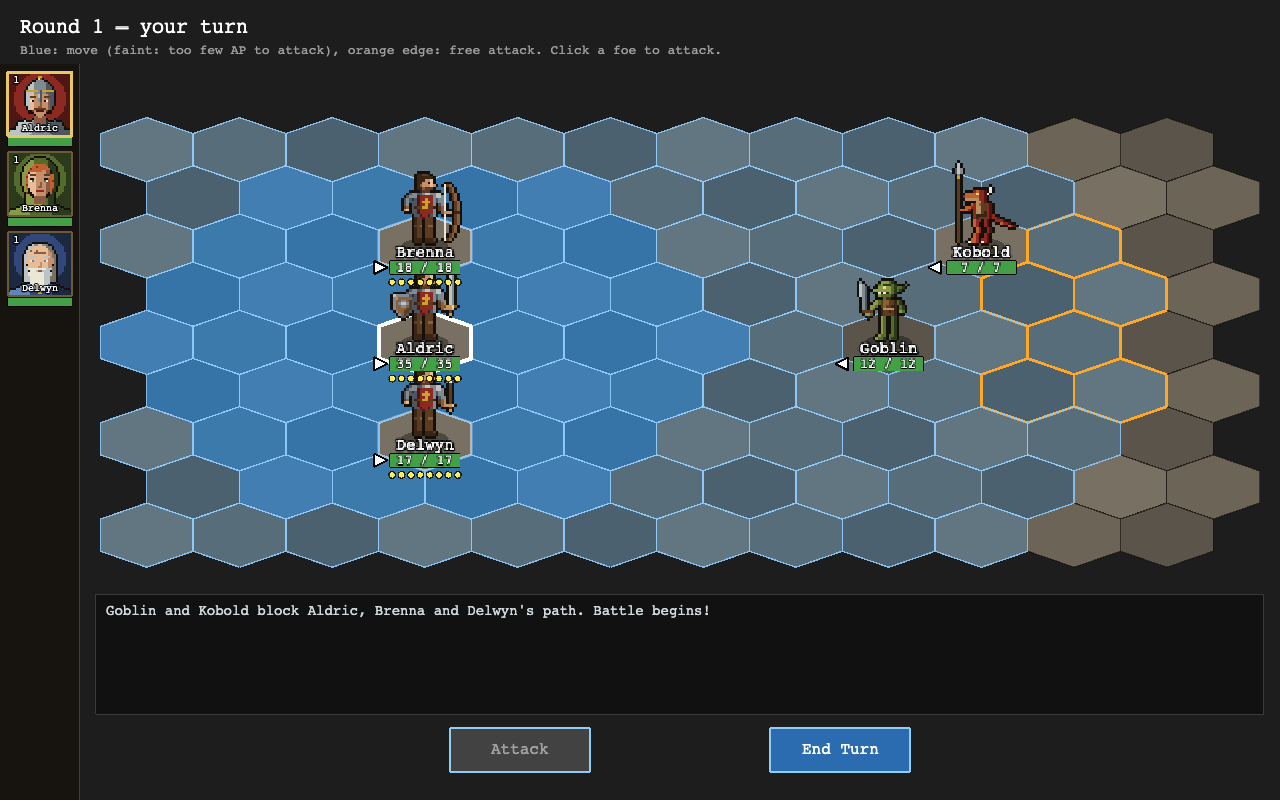
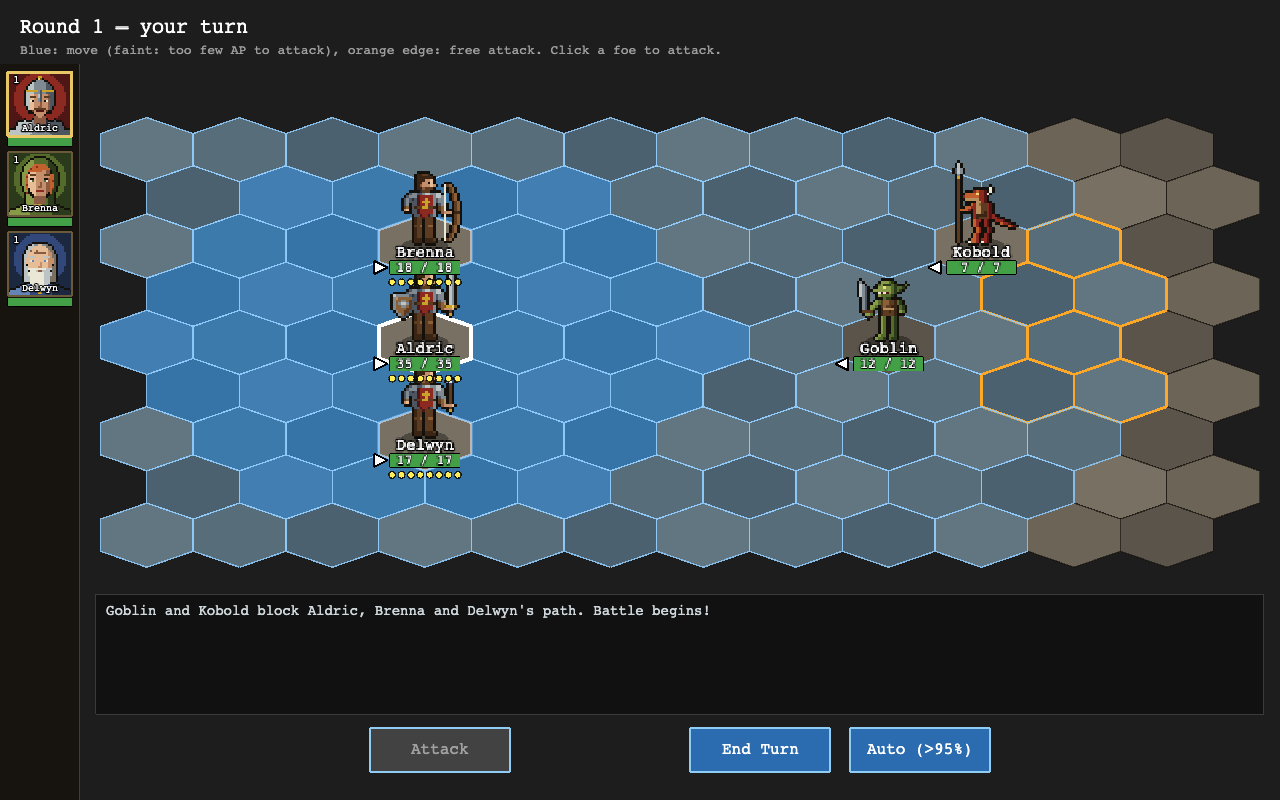
Auto-resolve step 07: manual, screenshots and records

Changed region(s): [[0.5312, 0.9062, 0.7812, 0.9688], [0.2812, 0.9062, 0.4688, 0.9688]]

diff --git a/e2e/manual.shots.ts b/e2e/manual.shots.ts
@@ -103,12 +103,14 @@ describe('the manual’s screenshots', () => {
     await game.waitForScenes(['World'])
 
     const near = await game.travelTo(RAIDERS.position)
+    await game.waitFor('World', (w) => w.forecast !== null)
     await game.hover({ x: 0, y: 0 })
     await shot(game, 'world-confront')
 
     await game.click(near.buttons.attack)
     await game.waitForScenes(['Battle'])
     const battle = await game.waitFor('Battle', (b) => b.playerControl)
+    await game.waitFor('Battle', (b) => b.forecast !== null)
     await game.hover({ x: 0, y: 0 })
     await shot(game, 'battle-start')
 
@@ -116,6 +118,7 @@ describe('the manual’s screenshots', () => {
     const foes = battle.state.units.filter((u) => u.side === 'enemy')
     const nearest = foes.reduce((a, b) => (hexDistance(hero.position, b.position) < hexDistance(hero.position, a.position) ? b : a))
     await game.hover(battleHexOnScreen(battle, offsetToHex(5, 4)))
+    await game.waitFor('Battle', (b) => b.forecast !== null)
     await shot(game, 'battle-move')
     // The archer, who can walk into range of a foe and still shoot it this turn: the path and the crossed swords.
     await game.click(battle.party[1])
@@ -126,6 +129,7 @@ describe('the manual’s screenshots', () => {
       return beyond > 0 && beyond <= archer.ap - archer.attackApCost
     }
     await game.hover(battleHexOnScreen(battle, (foes.find(walkable) ?? nearest).position))
+    await game.waitFor('Battle', (b) => b.forecast !== null)
     await shot(game, 'battle-attack')
 
     // The mage steps two hexes forward, to bring a foe within Magic Arrow's reach.
@@ -136,11 +140,13 @@ describe('the manual’s screenshots', () => {
     const stepped = await game.waitFor('Battle', (b) => b.playerControl && b.state.units.find((u) => u.id === 'hero_3')!.ap === 6)
     await game.press('m')
     const menu = await game.waitFor('Battle', (b) => b.skillMenu !== null)
+    await game.waitFor('Battle', (b) => b.forecast !== null)
     await shot(game, 'battle-spell-menu')
     await game.click(menu.skillMenu!.find((row) => row.id === 'magic_arrow')!)
     await game.waitFor('Battle', (b) => b.aiming?.id === 'magic_arrow')
     const target = stepped.state.units.filter((u) => u.side === 'enemy').find((u) => hexDistance(stepped.state.units.find((m) => m.id === 'hero_3')!.position, u.position) <= 5)!
     await game.hover(battleHexOnScreen(battle, target.position))
+    await game.waitFor('Battle', (b) => b.forecast !== null)
     await shot(game, 'battle-targeting')
     await game.press('Escape')
     await game.waitFor('Battle', (b) => b.aiming === null)
@@ -172,7 +178,7 @@ describe('the manual’s screenshots', () => {
     }
     await game.waitForScenes(['Battle'])
     await game.press('Escape')
-    await game.waitFor('Battle', (b) => b.playerControl)
+    await game.waitFor('Battle', (b) => b.playerControl && b.forecast !== null)
     await game.hover({ x: 0, y: 0 })
     await shot(game, 'battle-bandits')
   })
@@ -188,7 +194,7 @@ describe('the manual’s screenshots', () => {
     }
     await game.waitForScenes(['Battle'])
     await game.press('Escape')
-    const battle = await game.waitFor('Battle', (b) => b.playerControl)
+    const battle = await game.waitFor('Battle', (b) => b.playerControl && b.forecast !== null)
     const salamander = battle.state.units.find((u) => u.id === 'salamander')!
     await game.hover(battleHexOnScreen(battle, salamander.position))
     await game.waitFor('Battle', (b) => b.foeInfo.length > 0)

diff --git a/docs/implementation-plans/auto-resolve/06-world-estimate.md b/docs/implementation-plans/auto-resolve/06-world-estimate.md
@@ -153,7 +153,7 @@ Then:
 
 **2026-11-20, engineer.** Done.
 
-- **Built:** `WorldScene` gains `forecaster`, `forecastKey`, `forecastResult`, `autoHovered` (reset in `create`). `refresh()` ends with `refreshForecast()`: a new `Forecaster` only when the key `base:JSON(start)` differs (decision 4), dropped when the Auto-resolve button is hidden, while walking, or the game is over. `update()` works `workFor(…, FORECAST_SLICE_MS)` only when not walking, the button shows and no outcome screen. `setAutoLabel()` sets the label (`forecastLabel(…, false)`), resizes the button and its `bg` by `footerWidth` and runs `layout()` only when the label changed (`createButton` now keeps `bg` and `text` as container data). Hover on the button sets `autoHovered`; `refreshHint()` shows `forecastHint` while it is set and the button shows. `onAttack`/`onAutoResolve` call `dropForecast()` first. `WorldProbe.forecast` and `autoLabel` added; `ButtonProbe` gained an optional `width` (from `buttonProbe`) so tests can bound a button's edges.
+- **Built:** `WorldScene` gains `forecaster`, `forecastKey`, `forecastResult`, `autoHovered` (reset in `create`). `refresh()` ends with `refreshForecast()`: a new `Forecaster` only when the key `base:JSON(start)` differs (decision 4), dropped when the Auto-resolve button is hidden, while walking, or the game is over (but see the correction below: `refresh()` does not run at a walk's start). `update()` works `workFor(…, FORECAST_SLICE_MS)` only when not walking, the button shows and no outcome screen. `setAutoLabel()` sets the label (`forecastLabel(…, false)`), resizes the button and its `bg` by `footerWidth` and runs `layout()` only when the label changed (`createButton` now keeps `bg` and `text` as container data). Hover on the button sets `autoHovered`; `refreshHint()` shows `forecastHint` while it is set and the button shows. `onAttack`/`onAutoResolve` call `dropForecast()` first. `WorldProbe.forecast` and `autoLabel` added; `ButtonProbe` gained an optional `width` (from `buttonProbe`) so tests can bound a button's edges.
 - **Tests (`e2e/world.test.ts`, `describe('the auto-resolve estimate')`):** label and hover hint, responsive while it works, kept after marking a member and restarted after Scout's day, and A10 (two games with the same seed, one pressing Attack at once and one after the estimate: same `battle_start` seed 1 and identical first-turn log). Written after the code, so no red run was seen; they were not checked against a broken implementation.
 - **Review nits folded in:** (1) "fits the monster row in the least window" now waits for the estimate, then bounds each button's left edge by the party column (`view.x`), its right edge by the screen (840), and each button clear of the previous one. (2) `showHint()`'s doc comment moved back above it in `BattleScene.ts`. (3) The A9 battle test asserts `forecast` null and `autoLabel` "Auto (…)" right after the move click.
 - **Verification:** `npm test` 95 files, 2310 tests passed (guard unedited); `npm run test:browser -- -t "auto-resolve|least window|labels Auto"` 20 passed; full `npm run test:browser` 12 files, 156 tests passed (361 s).
@@ -161,3 +161,4 @@ Then:
 - **Known and unchanged:** if the pointer leaves the hovered button while it hides during a walk, `autoHovered` stays set until the next drop; harmless (the hint shows it only while the button shows, and `dropForecast` clears it).
 - **For step 07:** the footer shows "Auto-resolve (win NN%)" only after the estimate is ready (seconds), so screenshots must wait on `forecast !== null`.
 - **Review round 1:** (1) found: the keep/restart test could not fail. Fixed: `WorldProbe.forecastRuns` (estimates started since the map opened); the test asserts it is unchanged after marking a member and one more after Scout's day. Run against a constant key it failed (`expected 1 to be 2`), then reverted. (2) Not added: a walk can only start from a hex with no monsters, where `refresh()` has already dropped the forecaster and none exists until the walk ends, so "works during a walk" is unreachable through the UI and no cheap in-browser check bites. `update()`'s walking guard stays as defence.
+- **Correction (step 07, from the step 06 review):** this record said `refresh()` drops the forecaster before a walk, and that a walk can only start from a hex with no monsters so none exists then. Both are wrong. `refreshWalking()` hides the footer buttons without calling `refresh()`, so the forecaster survives a walk's start. It is not worked during the walk, because `update()` stops working it once the Auto-resolve button is hidden, which makes the `walking` guard in `update()` redundant (kept as defence). When the walk ends, `refresh()` keeps the estimate or restarts it by its key.

diff --git a/docs/manual/README.md b/docs/manual/README.md
@@ -166,9 +166,10 @@ Black hexes have never been seen. The party sees 5 hexes around it, the encampme
 
 ![Confronting monsters](images/world-confront.png)
 
-When you walk onto a monster lair, the footer offers three actions:
+When you walk onto a monster lair, the footer offers four actions:
 
 - **Attack** starts a battle.
+- **Auto-resolve** fights the battle for you at once, your heroes played by the same rules as the monsters. The result is final, and heroes who fall are dead, as in any battle. The button carries the AI's chance of winning, as in "Auto-resolve (win 90%)"; see [Auto-resolve](#auto-resolve) in the Battle chapter.
 - **Scout** and **Wait** each pass a turn without fighting. Neither does more yet.
 
 You can also click a hex to walk away.
@@ -269,6 +270,14 @@ Click a hero, or their portrait, to select them. The selected hero is marked in 
 ![Hovering a hex shows the path](images/battle-move.png)
 
 Hover over a hex to see the path, then click to move there. Each hex costs **1 AP**. A hero usually has **8 AP** a turn (5 plus half their Agility). Facing is automatic: a unit turns as it moves, attacks and casts.
+
+### Auto-resolve
+
+The fourth button on the battle screen, after Attack, Skills and End Turn, is **Auto**. It is enabled whenever End Turn is, and it has no key. Press it and the battle is finished at once, from wherever it stands, even in the middle of your turn: your heroes are played by the same rules as the monsters, the board shows the battle's end and the log lists every action. The result screen is the one a played battle gives, with "Auto-resolved in N rounds." after its first line. You can also auto-resolve from the world map, with the **Auto-resolve** button beside Attack, before the battle starts.
+
+If the battle has not ended 50 rounds after you press, the log says "The battle drags on. It is yours to finish." and the battle is yours again.
+
+**The estimate.** The figure on the button, as in "Auto (90%)", is the chance the AI wins the battle for you, worked out from 40 trial battles played in the background with the AI on your side; "(…)" means it is still working. Figures are rounded to the nearest 5% and never claim certainty: the ends read "over 95%" and "under 5%". Hover the button to read more in the hint line: the chance a hero dies, and how many trials dragged on past 50 rounds, if any. It is the AI's odds, not a promise, and a careful player usually does better. In battle the estimate is worked out again after each of your actions; on the world map, whenever something changes (a heal, new gear, another party, a day passing).
 
 ### Attacking
 
@@ -391,6 +400,8 @@ While aiming, the pointer is crossed swords over a valid target of an attacking 
 ![Victory](images/battle-victory.png)
 
 You win when every foe has fallen. Every surviving hero earns the full experience reward. The lair disappears from the map, the land around it is cleansed, and its loot goes into the baggage. A lair may also yield a **rune**, which goes into the party's rune pouch: the victory screen names it, as in "Found: Lesser Ember Rune". Lairs of threat 1 to 3 give a Lesser rune half the time; from threat 4 every win gives one, sometimes of the second rank. The Salamander Pool favours Ember runes and the Spider Nest Venom.
+
+An auto-resolved battle's rewards and losses are the same as a played one's: experience, loot, runes, the cleared lair and any heroes who fall. No confirmation is asked.
 
 **Death is permanent.** A hero who fell in a battle you won is gone for good. Their gear goes to the baggage, and the party fights on smaller until the guild hall fills the place. If **every** hero in the battle falls, that party is wiped out: its heroes are dead, and everything they wore and carried, with the party's baggage, lies at the lair as its loot, for whoever beats it. The game goes on while you have a hero anywhere, in another party or in the guild hall's reserves; if the last party falls with reserves left, they form a new party at the encampment at once. Only when no hero is left is the game over and its save deleted.
 

diff --git a/src/scenes/CLAUDE.md b/src/scenes/CLAUDE.md
@@ -15,6 +15,7 @@ Full detail (each screen's buttons, tabs and hovers, every helper's exports, ass
 - **Gear changes and hit points.** Every change to what a character wears ends with `clampHp(character, maxBefore)`: the share rule outside battle, the cap rule (`HpRule` 'cap') in battle, where the engine's `equip` only lowers hit points. `equipFromBackpack`, `unequipToBackpack` and `dropEquipped` apply the rule they are given; a new way of changing gear must too. In battle the panel edits the `Character` and `BattleScene` sends one `equip` action per changed member when it closes; on the world map nothing is sent. Reference: "Changing gear".
 - **Text input.** Every scene that types text wraps its `keydown` listener in `onceEachEvent` (`keyEvents.ts`), as Phaser hands a listener the same key again when two arrive within a frame.
 - **Seeds.** Every battle is seeded (the page's `?seed=` or else at random), the enemy's RNG with the seed plus one (auto-resolve's player policy stream with the seed plus two), so that any battle can be saved and replayed from its log. Sound variants use `Math.random`, never a game stream. The auto-resolve estimates (battle and world map) read the engine only through `snapshot()` and draws only from its samples' own seeds (`forecast.ts`); the world map's reads nothing of the page's seed or the world's RNG.
+- **Auto-resolve.** The battle screen's fourth button, Auto (enabled with End Turn, no key), and the world footer's Auto-resolve (shown by Attack's rule) both carry the estimate in their labels and, on hover, in the hint line. The estimate is worked in idle slices (`workFor` from `update`), never in a handler; it restarts when the battle moved (battle) or its key changes (world). Tests and screenshots wait on the probe's `forecast !== null`. Details in `docs/reference/scenes.md`.
 
 ## Probes
 

diff --git a/docs/implementation-plans/auto-resolve/07-manual-and-docs.md b/docs/implementation-plans/auto-resolve/07-manual-and-docs.md
@@ -86,3 +86,8 @@ The player's manual describes auto-resolve and its estimate, its screenshots sho
 - [ ] Commit(s) on `main`; the index's row 07 updated with status and hashes.
 
 ## 7. Execution record
+
+- **Built:** manual chapter 3 bullet (four actions), a `### Auto-resolve` section in chapter 5 (the button, mid-turn, the 50-round hand-back, the estimate), a line in "Victory and defeat"; "Battle keys" unchanged. Design status set to implemented; the long campaign's open-question row marked answered, with a pointer in stage 6's notes. Step 06's record corrected (the forecaster survives a walk's start; `refresh()` does not run there; the `walking` guard in `update()` is redundant). `src/scenes/CLAUDE.md` gained an Auto-resolve line. The sweep found the root map, `src/engine/CLAUDE.md`, `src/game/CLAUDE.md`, `docs/reference/scenes.md` and `docs/reference/simulator.md` already current; `e2e/CLAUDE.md` needed nothing.
+- **Screenshots:** `e2e/manual.shots.ts` waits for `forecast !== null` before `world-confront` and every battle shot taken under player control. Retaken and checked by eye: `world-confront` ("Auto-resolve (win >95%)" fits in the footer row), `battle-start`, `battle-move`, `battle-attack`, `battle-spell-menu`, `battle-targeting`, `battle-bandits`, `battle-salamander` (four buttons fit, "Auto (>95%)"). The run also re-encoded 14 unrelated PNGs by a few bytes (nondeterminism); they were reverted and not committed.
+- **Verification:** `npm run manual:screenshots` 7 passed; `npm test` 95 files, 2310 tests passed (guard unedited); `npm run test:browser` 12 files, 156 tests passed; `npm run build` passed; `SAVE_VERSION` and `LOG_SCHEMA_VERSION` both 26.
+

diff --git a/docs/designs/long-campaign/index.md b/docs/designs/long-campaign/index.md
@@ -73,6 +73,6 @@ These are recorded in the reference designs' section 8 with defaults taken. The 
 | Elements and wards (gear §8.1) | yes, in points, with a floor of 0 | stages 2 and 4 |
 | Runes are extracted intact for a fee (gear §8.3) | yes | stage 4 |
 | One clock with standing orders (company §8.1) | yes | stages 5 and 6 |
-| Auto-resolve for lesser parties' battles (company §8.3) | not at first | stage 6. Revisit after playing it. Stage 6's play script, walked headless, asked for only two battles (a threat-1 win in 3 rounds and a deliberate loss at the Troll Lair in 12), so it settles nothing about how a second party's battles feel; the simulator's company fights some 5.5 guard battles a campaign beside the vanguard's 35 at ready level 10. Decide after a human playthrough with two or three parties out. |
+| Auto-resolve for lesser parties' battles (company §8.3) | answered: every battle, from the world map or the battle screen, with an estimate of the AI's odds, per [auto-resolve](../auto-resolve.md) | stage 6. (Was: not at first; revisit after playing it.) Stage 6's play script, walked headless, asked for only two battles (a threat-1 win in 3 rounds and a deliberate loss at the Troll Lair in 12), so it settles nothing about how a second party's battles feel; the simulator's company fights some 5.5 guard battles a campaign beside the vanguard's 35 at ready level 10. Decide after a human playthrough with two or three parties out. |
 | Blight strength capped at threat 5's push (campaign §8.6) | yes | stage 9 |
 | The hero ceiling: grades above 3 or damage perks (campaign §8.8) | answered by tiers and runes | stages 10 and 12 |

diff --git a/docs/implementation-plans/auto-resolve/index.md b/docs/implementation-plans/auto-resolve/index.md
@@ -163,7 +163,7 @@ export function forecastHint(forecast: Forecast | null): string
 | 04 | [Auto-resolve on the world map](04-world-auto-resolve.md) | Footer button (C5); in-browser A1, A6, A3 | 03 | sonnet | done (see git log: "Auto-resolve step 04") |
 | 05 | [The estimate in battle](05-battle-estimate.md) | Sliced `Forecaster` in `BattleScene`, label, hover hint, probe (C4); in-browser A9 (battle) | 02, 03 | opus | done (see git log: "Auto-resolve step 05") |
 | 06 | [The estimate on the world map](06-world-estimate.md) | Sliced `Forecaster` in `WorldScene`, keyed restart, label, hover hint, probe (C4); in-browser A9 (world), A10 (seed) | 02, 04 | sonnet | done (see git log: "Auto-resolve step 06") |
-| 07 | [Manual, screenshots and records](07-manual-and-docs.md) | Manual chapters 3 and 5, screenshots retaken (waiting on the estimate), long-campaign open question answered, docs checked (A8) | 05, 06 | sonnet | pending |
+| 07 | [Manual, screenshots and records](07-manual-and-docs.md) | Manual chapters 3 and 5, screenshots retaken (waiting on the estimate), long-campaign open question answered, docs checked (A8) | 05, 06 | sonnet | done (see the commit "Auto-resolve step 07") |
 
 **Tiers.** "opus" means leave the model unset (the session's); "sonnet" means `model: "sonnet"`. Step 02 decides determinism and the estimate's independence from the real battle; 03 reworks the battle's control flow (playback bypass, sting, hand-back); 05 ties the estimate to that flow. 01 is an extraction the guard proves; 04 and 06 follow 03's and 05's patterns; 07 is docs and screenshots, reviewed for truth.
 

diff --git a/docs/designs/long-campaign/stage-06-multiple-parties.md b/docs/designs/long-campaign/stage-06-multiple-parties.md
@@ -133,4 +133,4 @@ Built as eleven steps (`docs/implementation-plans/long-campaign-stage-06/`).
 
 Seen on the way: a click on the map for a party while another party confronts monsters gives it a travel order silently (no message, the party list still showing "Idle", and nothing saved until the next save), where Next day says why and focuses the confronting party. Fixed after the step (at the coordinator's request): a map click, and Return home, now refuse as Next day does, giving no order, with `advanceRefusal`'s reason and the blocking party selected and centred.
 
-**Player time** (design §7). The walk asked for only two battles, a 3-round win and a deliberate 12-round loss, and it was walked by a script, so it says nothing about how a second party's battles feel to play. The simulator's company fights about 5 guard battles a campaign beside the vanguard's 35 at ready level 10, so the extra battles are few on today's map. Auto-resolve stays deferred; decide after a human plays with two or three parties out.
+**Player time** (design §7). The walk asked for only two battles, a 3-round win and a deliberate 12-round loss, and it was walked by a script, so it says nothing about how a second party's battles feel to play. The simulator's company fights about 5 guard battles a campaign beside the vanguard's 35 at ready level 10, so the extra battles are few on today's map. Auto-resolve stayed deferred here; it was later settled for every battle by [auto-resolve](../auto-resolve.md).

diff --git a/docs/designs/auto-resolve.md b/docs/designs/auto-resolve.md
@@ -8,7 +8,7 @@
 
 **Outcome.** Any battle can be auto-resolved, either before it starts (from the world map, beside Attack) or at any point during the player's turn (from the battle screen). The engine plays the battle to its end with the AI's policy on both sides, at once, as the simulator does, and the battle's result screen shows what happened. Everything after a battle (experience, deaths, loot, runes, the location cleared, the blight, the save) runs through the same code as for a played battle. Before choosing, the player sees an **estimate** beside the button: the chance the AI wins the battle for them and the chance a hero dies, from 40 sample battles played out headless on seeds of their own (section 4.6).
 
-**Status: approved by the user on condition of the estimate, which this revision adds; ready for planning.** The user's answers (2026-11-20): resolve at once, no playback (8.1); no confirmation (8.2); include a predicted outcome in this feature (8.3). New questions in section 8 have recommended defaults and do not block.
+**Status: implemented** (plan: `docs/implementation-plans/auto-resolve/`). The design was approved by the user on condition of the estimate. The user's answers (2026-11-20): resolve at once, no playback (8.1); no confirmation (8.2); include a predicted outcome in this feature (8.3). New questions in section 8 have recommended defaults and do not block.
 
 ## 2. Requirements and scope
 
